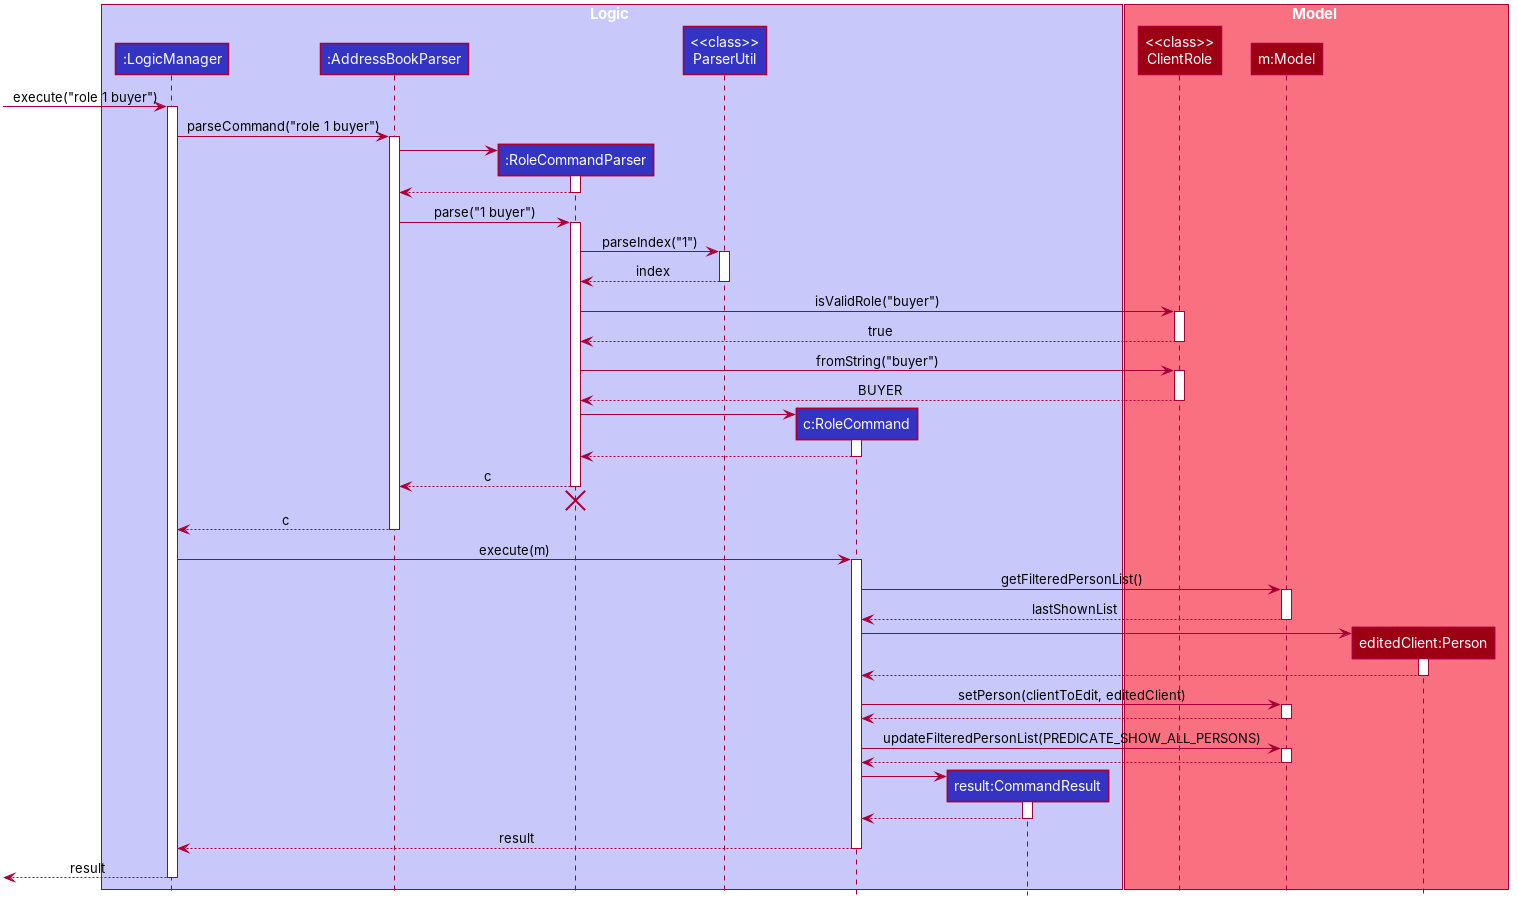
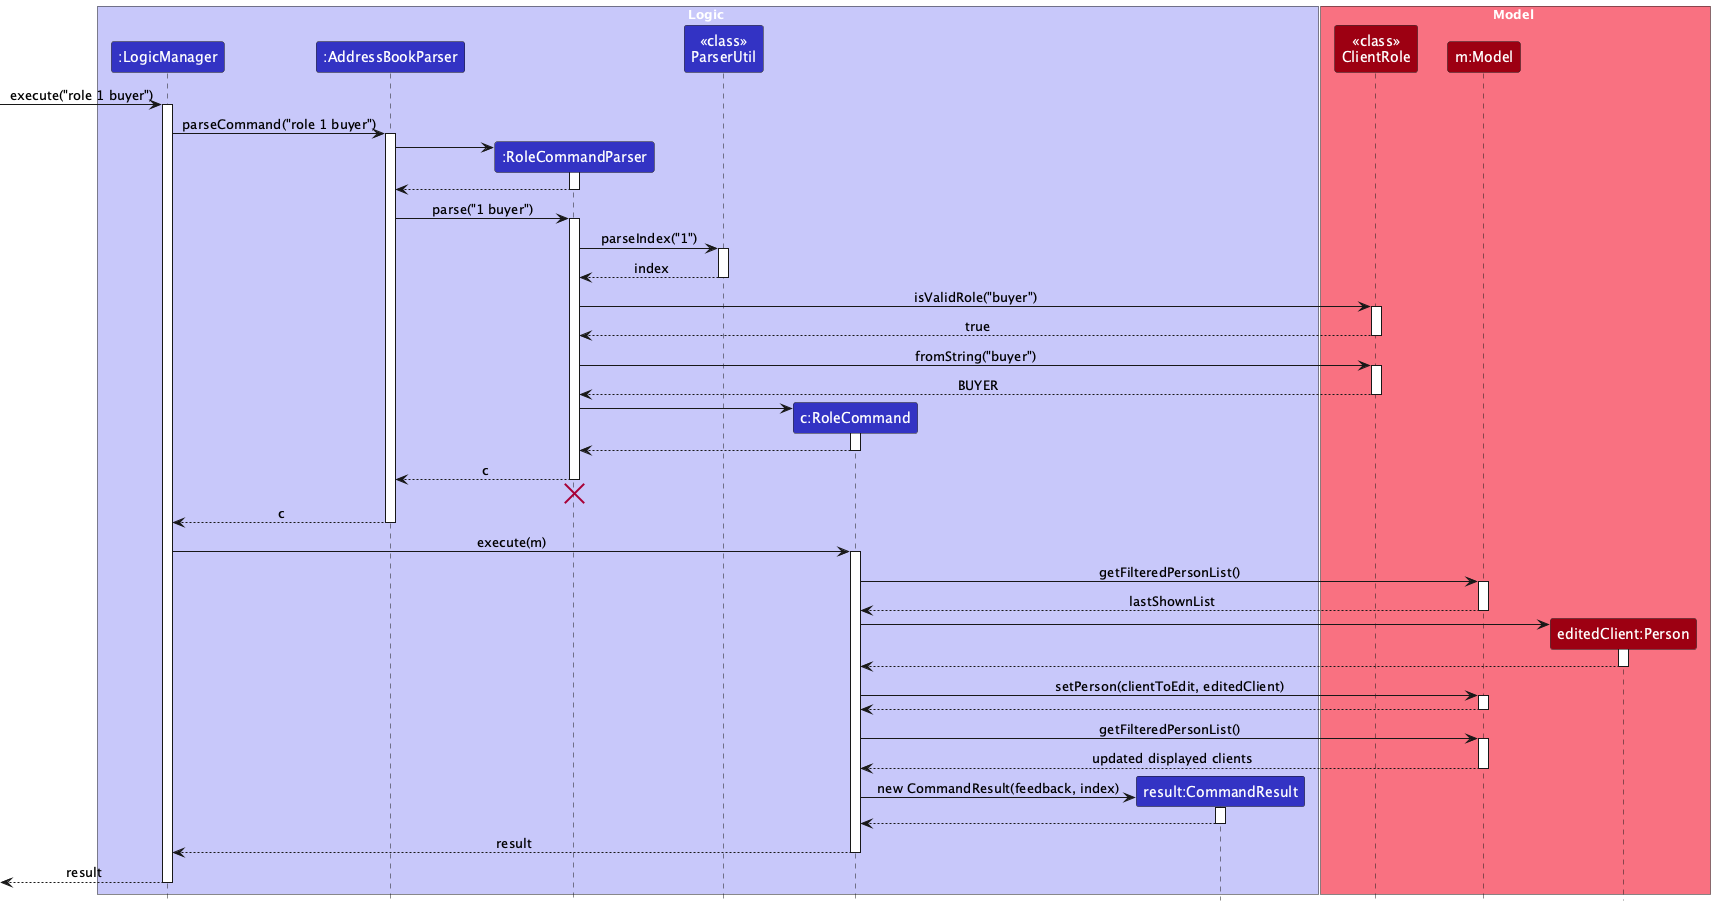
Document role, history and recovery design
The Developer Guide lacks rationale for several UI and recovery
behaviors, and its role and view diagrams show outdated interactions.

Explain the design and verification paths, correct the diagrams, and
align the manual tests with the current implementation. Keep this
update separate from the documentation covered by PR #197.

Refs #169

Changed region(s): [[0.0, 0.0, 1.0, 0.989], [0.2787, 0.5872, 0.3715, 0.6181], [0.4644, 0.2781, 0.4954, 0.3091]]

diff --git a/docs/DeveloperGuide.md b/docs/DeveloperGuide.md
@@ -93,6 +93,12 @@ startup and refreshes them after every command attempt, including a failed
 save that rolls back a history transition. The History menu item remains
 available even when both stacks are empty.
 
+The scene-level history key filter runs before the command text field can handle
+its own text undo. It consumes a recognized history shortcut even when the
+corresponding menu item is disabled, so the app reports an unavailable action
+instead of editing the user's draft. `MainWindowTest` covers this routing,
+draft preservation, input styling and menu state.
+
 The `UI` component uses the JavaFX UI framework. The layouts of these UI parts are defined in matching `.fxml` files in `src/main/resources/view`. For example, [`MainWindow.fxml`](https://github.com/AY2627S1-CS2103T-W09-3/tp/tree/master/src/main/resources/view/MainWindow.fxml) specifies the layout of [`MainWindow`](https://github.com/AY2627S1-CS2103T-W09-3/tp/tree/master/src/main/java/seedu/address/ui/MainWindow.java).
 
 The `UI` component,
@@ -170,12 +176,19 @@ The `Storage` component,
 * depends on some classes in the `Model` component (because the `Storage` component's job is to save/retrieve objects that belong to the `Model`)
 
 `JsonUtil` reads JSON from a byte stream, allowing Jackson to detect a UTF-8 or
-UTF-16 byte-order mark in a manually edited client book. If an existing client
-book still cannot be loaded, `MainApp` first copies it beside the original as
-`addressbook.json.unreadable-<unique number>.bak`, then starts with an empty
-model. It passes the backup path to `UiManager`, which warns the user where the
-original bytes were saved. The backup is created before a command can overwrite
-the data file; if the copy fails, startup does not continue with the empty book.
+UTF-16 byte-order mark in a manually edited client book.
+
+**Recovery belongs to startup.** The JSON reader reports invalid data;
+`MainApp#initModelManager` decides whether it is safe to offer an empty book.
+A missing file loads and saves sample clients. An unreadable file instead goes
+through `backUpUnreadableDataFile`, which copies the original bytes beside it as
+`addressbook.json.unreadable-<unique number>.bak` before creating an empty model.
+`UiManager` shows the backup path after opening the main window. The backup is
+for manual recovery, not an automatic repair.
+
+If the backup fails, startup logs the cause and stops, preventing a later
+command from overwriting the only copy. `MainAppTest` covers recovery and backup
+failure, and `UiManagerTest` covers the warning and normal startup without it.
 
 ### Common classes
 
@@ -210,16 +223,20 @@ Clearing a role with `none` instead shows `Role cleared: CLIENT_NAME has no assi
 If the client is already unassigned, it shows `Role unchanged: CLIENT_NAME already has no assigned role`.
 That case does not change the client or add an undo-history entry.
 
-The examples below are independent and assume that `Alicia Tan` is client 1 in
-the currently displayed list.
+**Implementation.** `RoleCommandParser` requires exactly two arguments and
+validates the index before the role. It translates `none` into a null role rather
+than adding a fourth enum value. `RoleCommand#execute` looks up the displayed
+client and creates a replacement `Person`, copying every other field. It does
+not reset the predicate. After replacement, it looks up the client's new
+displayed index: the result reselects a visible client, or clears the detail
+panel if the role change removes the client from the active filter.
 
-| Command | Expected result |
-|---------|-----------------|
-| `role 1 buyer` | Alicia Tan's role becomes `Buyer`. The result box shows `Role updated: Alicia Tan is now marked as Buyer`. |
-| `role 1 seller` | Alicia Tan's role becomes `Seller`. The result box shows `Role updated: Alicia Tan is now marked as Seller`. |
-| `role 1 both` | Alicia Tan's role becomes `Buyer, Seller`. The result box shows `Role updated: Alicia Tan is now marked as Buyer, Seller`. |
-| `role 1 none` | Alicia Tan has no assigned role or role badge. The result box shows `Role cleared: Alicia Tan has no assigned role`. |
-| `role 1 none` again | Alicia Tan remains unassigned. The result box shows `Role unchanged: Alicia Tan already has no assigned role`. |
+The command supplies its undoable flag and action description; history recording
+and persistence remain the responsibility of `LogicManager`. This keeps the
+typed command and menu-driven history on the same transaction path.
+`RoleCommandParserTest` covers validation, and `RoleCommandTest` covers clearing,
+unchanged roles and filtered indexes. `UndoRedoIntegrationTest` checks that role
+changes survive undo, redo and a storage round trip.
 
 Invalid inputs do not change the client's role:
 
@@ -234,6 +251,10 @@ Invalid inputs do not change the client's role:
 The following sequence diagram shows how the `role 1 buyer` command is processed successfully:
 
 ![Interactions for the `role 1 buyer` command](images/RoleSequenceDiagram.png)
+
+The diagram assumes that the updated client remains visible. It focuses on
+parsing and the model update; snapshot capture, persistence and UI rendering are
+omitted. The source is [RoleSequenceDiagram.puml](diagrams/RoleSequenceDiagram.puml).
 
 ### Client role storage
 
@@ -330,8 +351,8 @@ After successful command execution, `MainWindow` applies these rules:
 | Command result | Selection handling |
 |---|---|
 | Contains a view index | Select that client in the current filtered list. |
-| No view index, and neither awaiting confirmation nor showing help | Clear selection, even if the list contents did not change. |
-| Awaiting clear confirmation or showing help | Preserve selection unless a list change already cleared it. |
+| No view index, and no confirmation, help or selection-preservation flag | Clear selection, even if the list contents did not change. |
+| Awaiting clear confirmation, showing help, or `shouldPreserveSelection()` is true | Preserve selection unless a list change already cleared it. |
 | Parsing or execution throws an exception | Show the error without explicitly changing selection; a list change may already have cleared it. |
 | Any input other than `clear confirm` while a clear is pending | `LogicManager` swallows any `ParseException`, skips the command and returns `Clear cancelled.` with no view index, so the panel is cleared and no error is shown. |
 
@@ -348,6 +369,39 @@ returns no view index and clears the panel, while preserving client data.
 `MainWindowTest` exercises the command-to-panel path, filtered selection,
 refresh after edits, selection clearing and preservation on errors/help/clear
 warnings. `DetailPaneTest` checks optional rows, wrapping and scrolling.
+
+### Compact client cards and filter status
+
+The list is a scanning view; `DetailPane` is the full record. `PersonCard` and
+`PersonListCard.fxml` keep the identity, contact and tag rows compact, with an
+optional single-line requirements summary. Long names, emails and summaries may
+use ellipses, while the index and role badge keep their preferred widths.
+Absent role badges, note markers and requirements are both invisible and
+unmanaged, so they do not reserve layout space.
+
+**Tag overflow.** `PersonCard` sorts the tags before passing them to `TagRow`,
+which fits whole labels into the available width, reserving room for a `+N`
+overflow label. Its tooltip lists the hidden tags. Fitting runs during layout
+and uses the labels' computed widths
+and the overflow label's current font, so resizing and platform font metrics do
+not require a fixed character limit. This avoids multi-line tags pushing the
+next client out of view; all tags remain available in the detail panel.
+
+**Small windows.** Card height follows its content rather than a fixed list-cell
+height. `MainWindow#updateLayoutDensity` sets the `compact` pseudo-class from the
+usable content height, and `DarkTheme.css` reduces surrounding padding and the
+feedback viewport without reducing text size. Change the FXML and CSS together
+when adjusting density. `PersonCardTest`, `InterfaceStyleTest` and
+`MainWindowTest` cover fitting and logical viewport sizes; actual operating-system
+display scaling still needs the checks in the [Testing guide](Testing.md#manual-display-scaling-checks).
+
+**Filter status.** `StatusBarFooter` binds to the displayed list size, total list
+size and `Model#personListFilteredProperty`. The last property describes whether
+an active predicate differs from the show-all predicate; it is not inferred from
+the counts. Even a search matching every client therefore shows the filtered
+indicator until `list` resets it: a client added later is still subject to the
+active predicate, even when the current counts are equal.
+`MainWindowTest` checks these states, including empty results and data changes.
 
 ### Clear confirmation
 
@@ -429,12 +483,24 @@ reverses the stack transfer, leaving the action available to retry. Undo and red
 do not record additional history entries. The same access-denied and general
 storage-error messages apply as for ordinary commands.
 
+`LogicManager#saveAddressBookOrRollback` keeps the save error and rollback in one
+path. If rollback itself reports a `HistoryOperationException`, it becomes an
+`IllegalStateException`: this signals an internal history inconsistency rather
+than an ordinary retryable save failure. `LogicManagerTest` exercises failed
+saves after undo and redo, including failures of the rollback itself.
+
 **Keeping the saved file consistent.** `JsonAddressBookStorage` serialises the
 complete address book into a temporary file beside the destination, then atomically
 replaces the destination. The app never writes partial JSON directly into the saved
 file, and it removes the temporary file after a failed save. If atomic replacement
 is unsupported, saving fails and `LogicManager` rolls back the in-memory state and
 stacks rather than reporting success for an unsaved change.
+
+If removing the temporary file also fails, `JsonAddressBookStorage` attaches that
+cleanup failure as a suppressed exception and rethrows the original save failure.
+This preserves the reason the save failed while retaining cleanup diagnostics.
+`JsonAddressBookStorageTest` checks this for both I/O and runtime failures and
+verifies that the previous file remains intact.
 
 ### Client requirements
 
@@ -922,6 +988,16 @@ testers are expected to do more *exploratory* testing.
       Expected: Alicia remains unassigned. The result box shows
       `Role unchanged: Alicia Tan already has no assigned role`. No new undo-history entry is added.
 
+1. Clearing a role while a filter is active
+
+   1. Prerequisites: In a fresh test folder, run `filter r/buyer`, then `view 1`.
+
+   1. Test case: `role 1 none`<br>
+      Expected: Alicia leaves the filtered list and the detail panel clears. No other client is selected.
+
+   1. Test case: `undo`<br>
+      Expected: Alicia returns to the buyer results. Run `view 1` to confirm that her Buyer badge is restored.
+
 ### Rejecting invalid role commands
 
 1. Rejecting invalid formats, roles, and indexes
@@ -1021,7 +1097,7 @@ testers are expected to do more *exploratory* testing.
 
 1. Starting with a missing data file
 
-   1. Prerequisites: Run `list` to create the data file. Exit the app and rename `data/addressbook.json` to
+   1. Prerequisites: Confirm that `data/addressbook.json` exists after startup. Exit the app and rename it to
       `addressbook.backup.json`.
 
    1. Relaunch the app.<br>
@@ -1044,9 +1120,22 @@ testers are expected to do more *exploratory* testing.
       copied to `data/addressbook.json.unreadable-<unique number>.bak`.
 
    1. Run `list`.<br>
-      Expected: The result box shows `Listed all clients.` and the corrupted file is replaced with a valid empty
-      client book. The `.bak` copy still contains the corrupted file's original bytes. Restore the valid backup
-      made before this test after completing it.
+      Expected: The result box shows `Listed all clients.` and the client list stays empty. The original
+      unreadable file and its `.bak` copy are unchanged.
+
+   1. Test case: `add n/Recovery Test p/90000991 e/recovery@example.com a/1 Test Road`<br>
+      Expected: The original data file is replaced with valid JSON containing the new client. The `.bak` copy
+      still contains the unreadable file's original bytes. Close the app and restore the valid backup made
+      before this test after completing it.
+
+3. A backup cannot be created
+
+   1. Prerequisites: Use a disposable test folder, close the app, and back up its data file. Make the file
+      invalid as above and make its parent `data` folder unwritable using the operating system's permissions.
+
+   1. Relaunch the app from a terminal.<br>
+      Expected: Startup stops with a message explaining that the unreadable file could not be backed up.
+      The original bytes remain unchanged. Restore the folder's write permission and the valid backup.
 
 ### Clearing all clients with confirmation
 
@@ -1382,3 +1471,33 @@ testers are expected to do more *exploratory* testing.
 
    1. Test case: `list`<br>
       Expected: The list refreshes and the detail panel returns to `Select a client to see details.`.
+
+1. Distinguishing an active search from the full list
+
+   1. Prerequisites: Start with the five sample clients. Run `find example.com`.
+
+   1. Expected: All five clients match, but the footer shows `5 of 5 clients (filtered; use list)`.
+      Run `list` and confirm that it returns to `5 clients`.
+
+### History controls and unfinished input
+
+1. Menu state and selection
+
+   1. Prerequisites: Start a fresh session with the five sample clients. Undo and Redo are disabled in the
+      Edit menu; History remains available. Run `role 1 seller`, then `view 1`.
+
+   1. Test case: `history`<br>
+      Expected: Alicia remains selected and her profile stays visible. The Edit menu's History action
+      has the same effect. Undo is enabled and Redo is disabled.
+
+1. Shortcuts preserve a draft
+
+   1. Type `add n/Draft` without pressing Enter, then press Cmd+Z on macOS or Ctrl+Z on Windows/Linux.<br>
+      Expected: Alicia's role change is undone, the draft stays unchanged, and Redo becomes available.
+
+   1. Press the same shortcut again, with no undoable action remaining.<br>
+      Expected: The result box reports `There is no action to undo`. The draft is unchanged and is not
+      given the command-error style, even though Undo is disabled in the Edit menu.
+
+   1. Press Cmd+Shift+Z on macOS or Ctrl+Y on Windows/Linux.<br>
+      Expected: Alicia's Seller role returns, the draft stays unchanged, and the menu availability refreshes.
